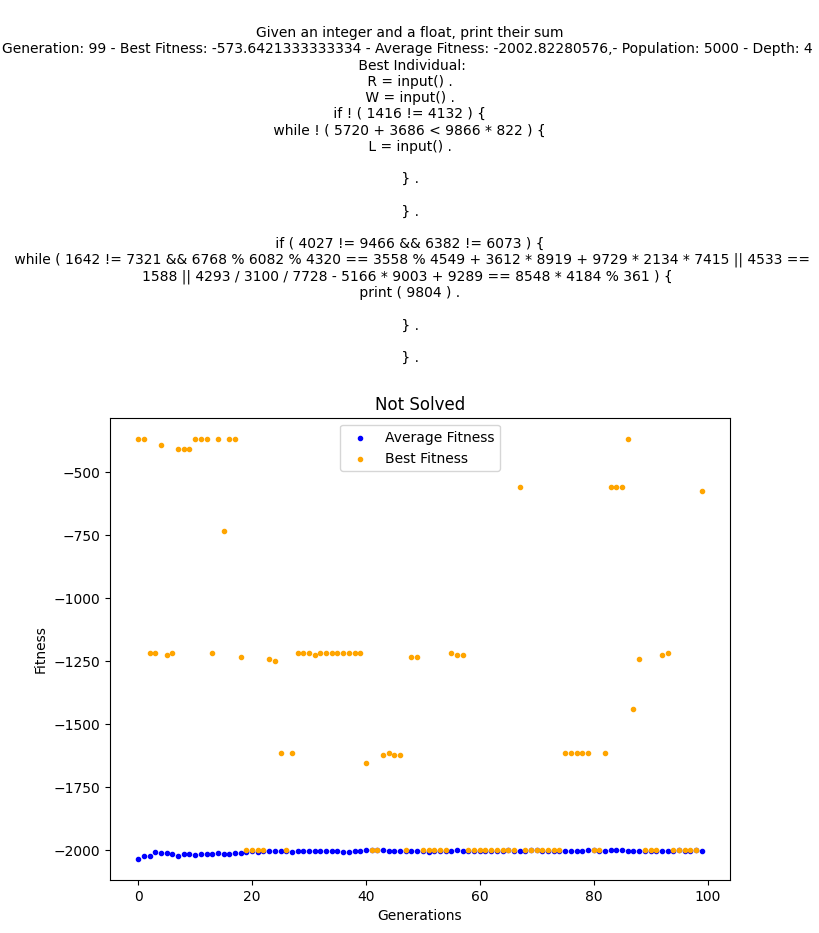
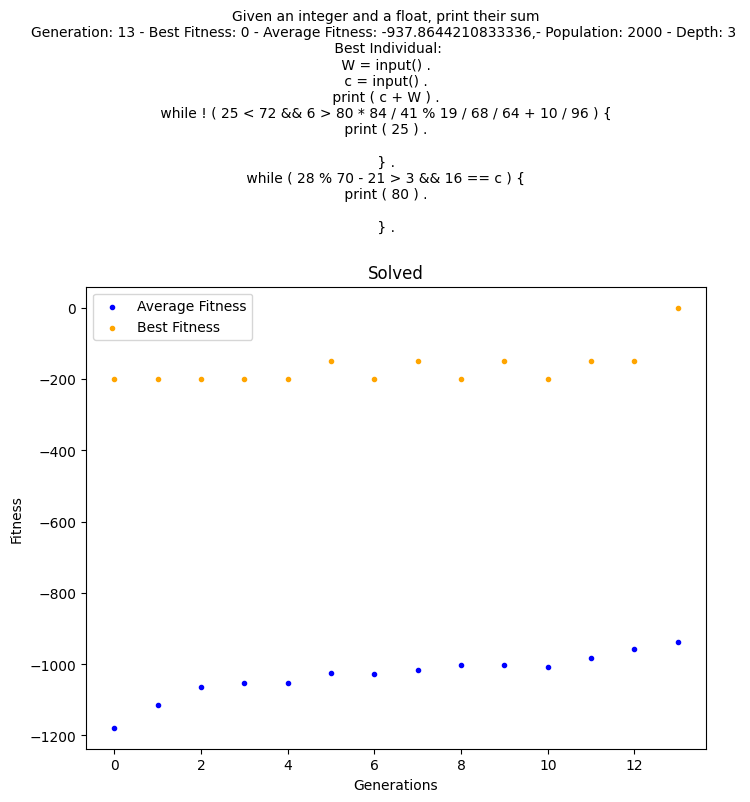
Add benchmark 1

diff --git a/testing.py b/testing.py
@@ -152,7 +152,7 @@ def fitness_function_7(program):
         tree = parser.prog()
         num_readings = program.count("input()")
         for _ in range(4):
-            visitor = ExprVisitor(20, -9999, 9999)
+            visitor = ExprVisitor(20, -9, 9)
             output, program_input = visitor.visit(tree)
             # print("Output: ", output)
             if output[0] == program_input[0] + program_input[1] and num_readings == 2 and len(output) == 1:
@@ -371,20 +371,13 @@ def benchmark1(program):
     fitness = 0
     value = -1500
     inputs_count = program.count("input()")
-    if inputs_count == 3:
+    if inputs_count == 2:
         value += 100
     split_program = program.split(".")
-    variables = [line[0] for line in split_program if "input()" in line]
     if "input()" in split_program[0] and "input()" in split_program[1] and "input()" in split_program[2]:
         value += 600
-    if any(["print" in x and "/" in x for x in split_program[2:]]):
-        value += 100
     if any(["print" in x and "+" in x for x in split_program[2:]]):
-        value += 100
-    if any(["print" in x and "+" in x and "/" in x for x in split_program[2:]]):
         value += 200
-    if any(all(v in x for v in variables) and "print" in x for x in split_program[2:]):
-        value += 100
     index = 0
     for i in range(0, len(split_program)-1):
         if "print" in split_program[i]:
@@ -401,8 +394,7 @@ def benchmark1(program):
         for _ in range(8):
             visitor = ExprVisitor(20, 1, 9)
             output, program_input = visitor.visit(tree)
-
-            if output[0] == sum(program_input) and num_readings == 3 and len(output) == 1:
+            if output[0] == sum(program_input) and num_readings == 2 and len(output) == 1:
                 print("inputs:", program_input)
                 print("Outputs: ", output)
                 fitness += 0
@@ -412,7 +404,6 @@ def benchmark1(program):
                 fitness += 2 * (value - len(program) / 10000)
         return fitness
     except Exception as e:
-        # print(e)
         return 8 * (value - len(program) / 10000)
 
 def benchmark2(program):
@@ -557,9 +548,9 @@ if __name__ == '__main__':
     #test(fitness_function_9, "Program powinien odczytać dwie pierwsze liczy z wejścia i zwrócić na wyjściu "
     #                         "(jedynie) ich iloczyn. Na wejściu mogą być tylko całkowite liczby dodatnie w zakresie [-9999,9999]",
     #     "1.2.E")
-    test(fitness_function_10, "Program powinien odczytać dwie pierwsze liczy z wejścia i zwrócić na wyjściu (jedynie)"
-                             " większą z nich. Na wejściu mogą być tylko całkowite liczby dodatnie w zakresie [0,9]",
-         "1.3.A")
+    # test(fitness_function_10, "Program powinien odczytać dwie pierwsze liczy z wejścia i zwrócić na wyjściu (jedynie)"
+    #                          " większą z nich. Na wejściu mogą być tylko całkowite liczby dodatnie w zakresie [0,9]",
+    #      "1.3.A")
     #test(fitness_function_10, "Program powinien odczytać dwie pierwsze liczy z wejścia i zwrócić na wyjściu (jedynie)"
     #                          " większą z nich. Na wejściu mogą być tylko całkowite liczby w zakresie [-9999,9999]",
     #     "1.3.B")
@@ -567,7 +558,7 @@ if __name__ == '__main__':
     #                          "jedynie) ich średnią arytmetyczną (zaokrągloną do pełnej liczby całkowitej). Na "
     #                          "wejściu mogą być tylko całkowite liczby w zakresie [-99,99]",
     #     "1.4.A")
-    # test(benchmark1, "Given an integer and a float, print their sum", "B.1")
+    test(fitness_function_7, "Given an integer and a float, print their sum", "B.1")
     # test(benchmark3, "Given 4 integers, print smallest of them", "28/ C.3")
     #test(benchmark2, "Given the integer n, return the sum of squaring each integer in range[1, n]", "B.3_17")
     # test(benchmark3, "Given the integer n, return the vector of squaring each integer in range[1, n]", "B.O_1")

diff --git a/gen/ExprVisitor.py b/gen/ExprVisitor.py
@@ -28,6 +28,7 @@ class ExprVisitor(ParseTreeVisitor):
         self.counter = 0
         self.min_range = min_range
         self.max_range = max_range
+        self.index = 0
 
     def findVariable(self, var_name: str) -> Tuple[bool, Union[Variable, None]]:
         """
@@ -130,8 +131,10 @@ class ExprVisitor(ParseTreeVisitor):
             values, outputs = self.visitLiterals(ctx.literals(), [], [])
             value = self.get_value(values, outputs)
         else:
-            value = random.randint(self.min_range, self.max_range)
+            value = random.randint(self.min_range, self.max_range) if self.index % 2 == 0 \
+                    else round(random.uniform(self.min_range, self.max_range), 2)
             self.inputs.append(value)
+            self.index += 1
 
         names = [var.name for var in self.variables]
         if name in names:
@@ -162,7 +165,7 @@ class ExprVisitor(ParseTreeVisitor):
                         outputs.pop(i)
                         i -= 1
                     elif outputs[i] == "/":
-                        values[i] = values[i] / values[i + 1] if values[i + 1] != 0 else values[i] / 1
+                        values[i] = round(values[i] / values[i + 1], 2) if values[i + 1] != 0 else values[i] / 1
                         values.pop(i + 1)
                         outputs.pop(i)
                         i -= 1

diff --git a/gp/BiggerGP.py b/gp/BiggerGP.py
@@ -12,9 +12,9 @@ from gen.ExprVisitor import ExprVisitor
 class BiggerGP:
     """ Class executing genetic algorithm using simple custom programming language"""
 
-    def __init__(self, p_size: int = 10000, depth: int = 3, length: int = 5):
+    def __init__(self, p_size: int = 2000, depth: int = 3, length: int = 5):
         self.MAX_LEN: int = length
-        self.MAX_LOGIC_LEN: int = 2
+        self.MAX_LOGIC_LEN: int = 1
         self.POP_SIZE: int = p_size
         self.DEPTH: int = depth
         self.GENERATIONS: int = 50
